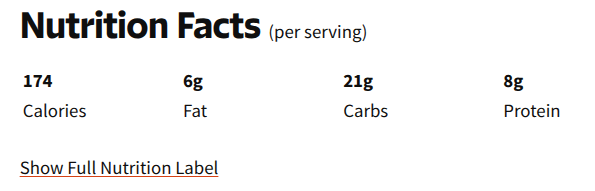
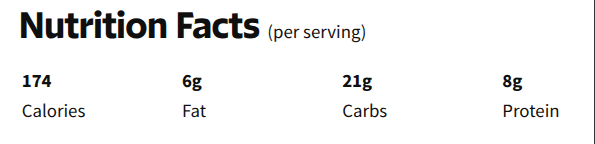
Added burger recipe

diff --git a/Recipes/burger.html b/Recipes/burger.html
@@ -1,0 +1,37 @@
+<!DOCTYPE html>
+<html lang="en">
+<head>
+    <meta charset="UTF-8">
+    <meta name="viewport" content="width=device-width, initial-scale=1.0">
+    <title>Here goes yo Burg</title>
+</head>
+<body>
+    <h1>Here is a guide to make Burger oki</h1>
+    <img src="../Images/Burger.png" alt="Burger">
+    <p></p>
+    <img src="../Images/Burgerinfo.png" alt="Burger info">
+    <h2>Ingredients Required:</h2>
+    <ol>
+        <li>1 large egg</li>
+        <li>½ teaspoon salt</li>
+        <li>½ teaspoon ground black pepper</li>
+        <li>1 pound ground beef</li>
+        <li>½ cup fine dry bread crumbs</li>
+    </ol>
+    <h2>*Directions:</h2>
+    <strong>Step 1.</strong>
+    <p>Preheat an outdoor grill for high heat and lightly oil grate.</p>
+    <strong>Step 2.</strong>
+    <p>Whisk egg, salt, and pepper together in a medium bowl.</p>
+    <strong>Step 3.</strong>
+    <p>Add ground beef and bread crumbs; mix with your hands or a fork until well blended.</p>
+    <strong>Step 4.</strong>
+    <p>Form into four 3/4-inch-thick patties.</p>
+    <strong>Step 5.</strong>
+    <p>Place patties on the preheated grill. Cover and cook 6 to 8 minutes per side, or to desired doneness. An instant-read thermometer inserted into the center should read at least 160 degrees F (70 degrees C).</p>
+    <strong>Step 6.</strong>
+    <p>Serve hot and enjoy!</p>
+    <img src="../Images/BurgerNutrition.png" alt="BurgerNutrition">
+    <h1><strong><a href="../index.html">Home</a></strong></h1>
+</body>
+</html>

diff --git a/index.html b/index.html
@@ -9,9 +9,11 @@
     <h1>A guide to cook</h1>
     <p>In this guide we're gonna discuss about various multiple recipes of some dishes</p>
     <h2>It all starts here</h2>
-    <h3>1.<a href="../My_recipes/Recipes/pizza.html"> Pizza:</a> </h3>
+    <h3>1.<a href="Recipes/pizza.html"> Pizza:</a> </h3>
     <img src="Images/Pizza.png" alt="Pizza Image">
-
+    <h3>2.<a href="Recipes/burger.html">Burger:</a></h3>
+    <img src="Images/Burger.png" alt="Burger Image" height="300" width="400">
+    <h3>3.<a href="Recipes/pasta.html">Pasta:</a></h3>
     
 </body>
 </html>

diff --git a/Recipes/pizza.html b/Recipes/pizza.html
@@ -57,5 +57,6 @@
     <strong>Step 9:</strong>
     <p>Bake in the preheated oven until crusts are golden brown, about 20 minutes.</p>
     <img src="../Images/PizzaNutrition.png">
+    <h1><strong><a href="../index.html">Home</a></strong></h1>
 </body>
 </html>

diff --git a/Recipes/pasta.html b/Recipes/pasta.html
@@ -1,0 +1,11 @@
+<!DOCTYPE html>
+<html lang="en">
+<head>
+    <meta charset="UTF-8">
+    <meta name="viewport" content="width=device-width, initial-scale=1.0">
+    <title>Document</title>
+</head>
+<body>
+    
+</body>
+</html>
